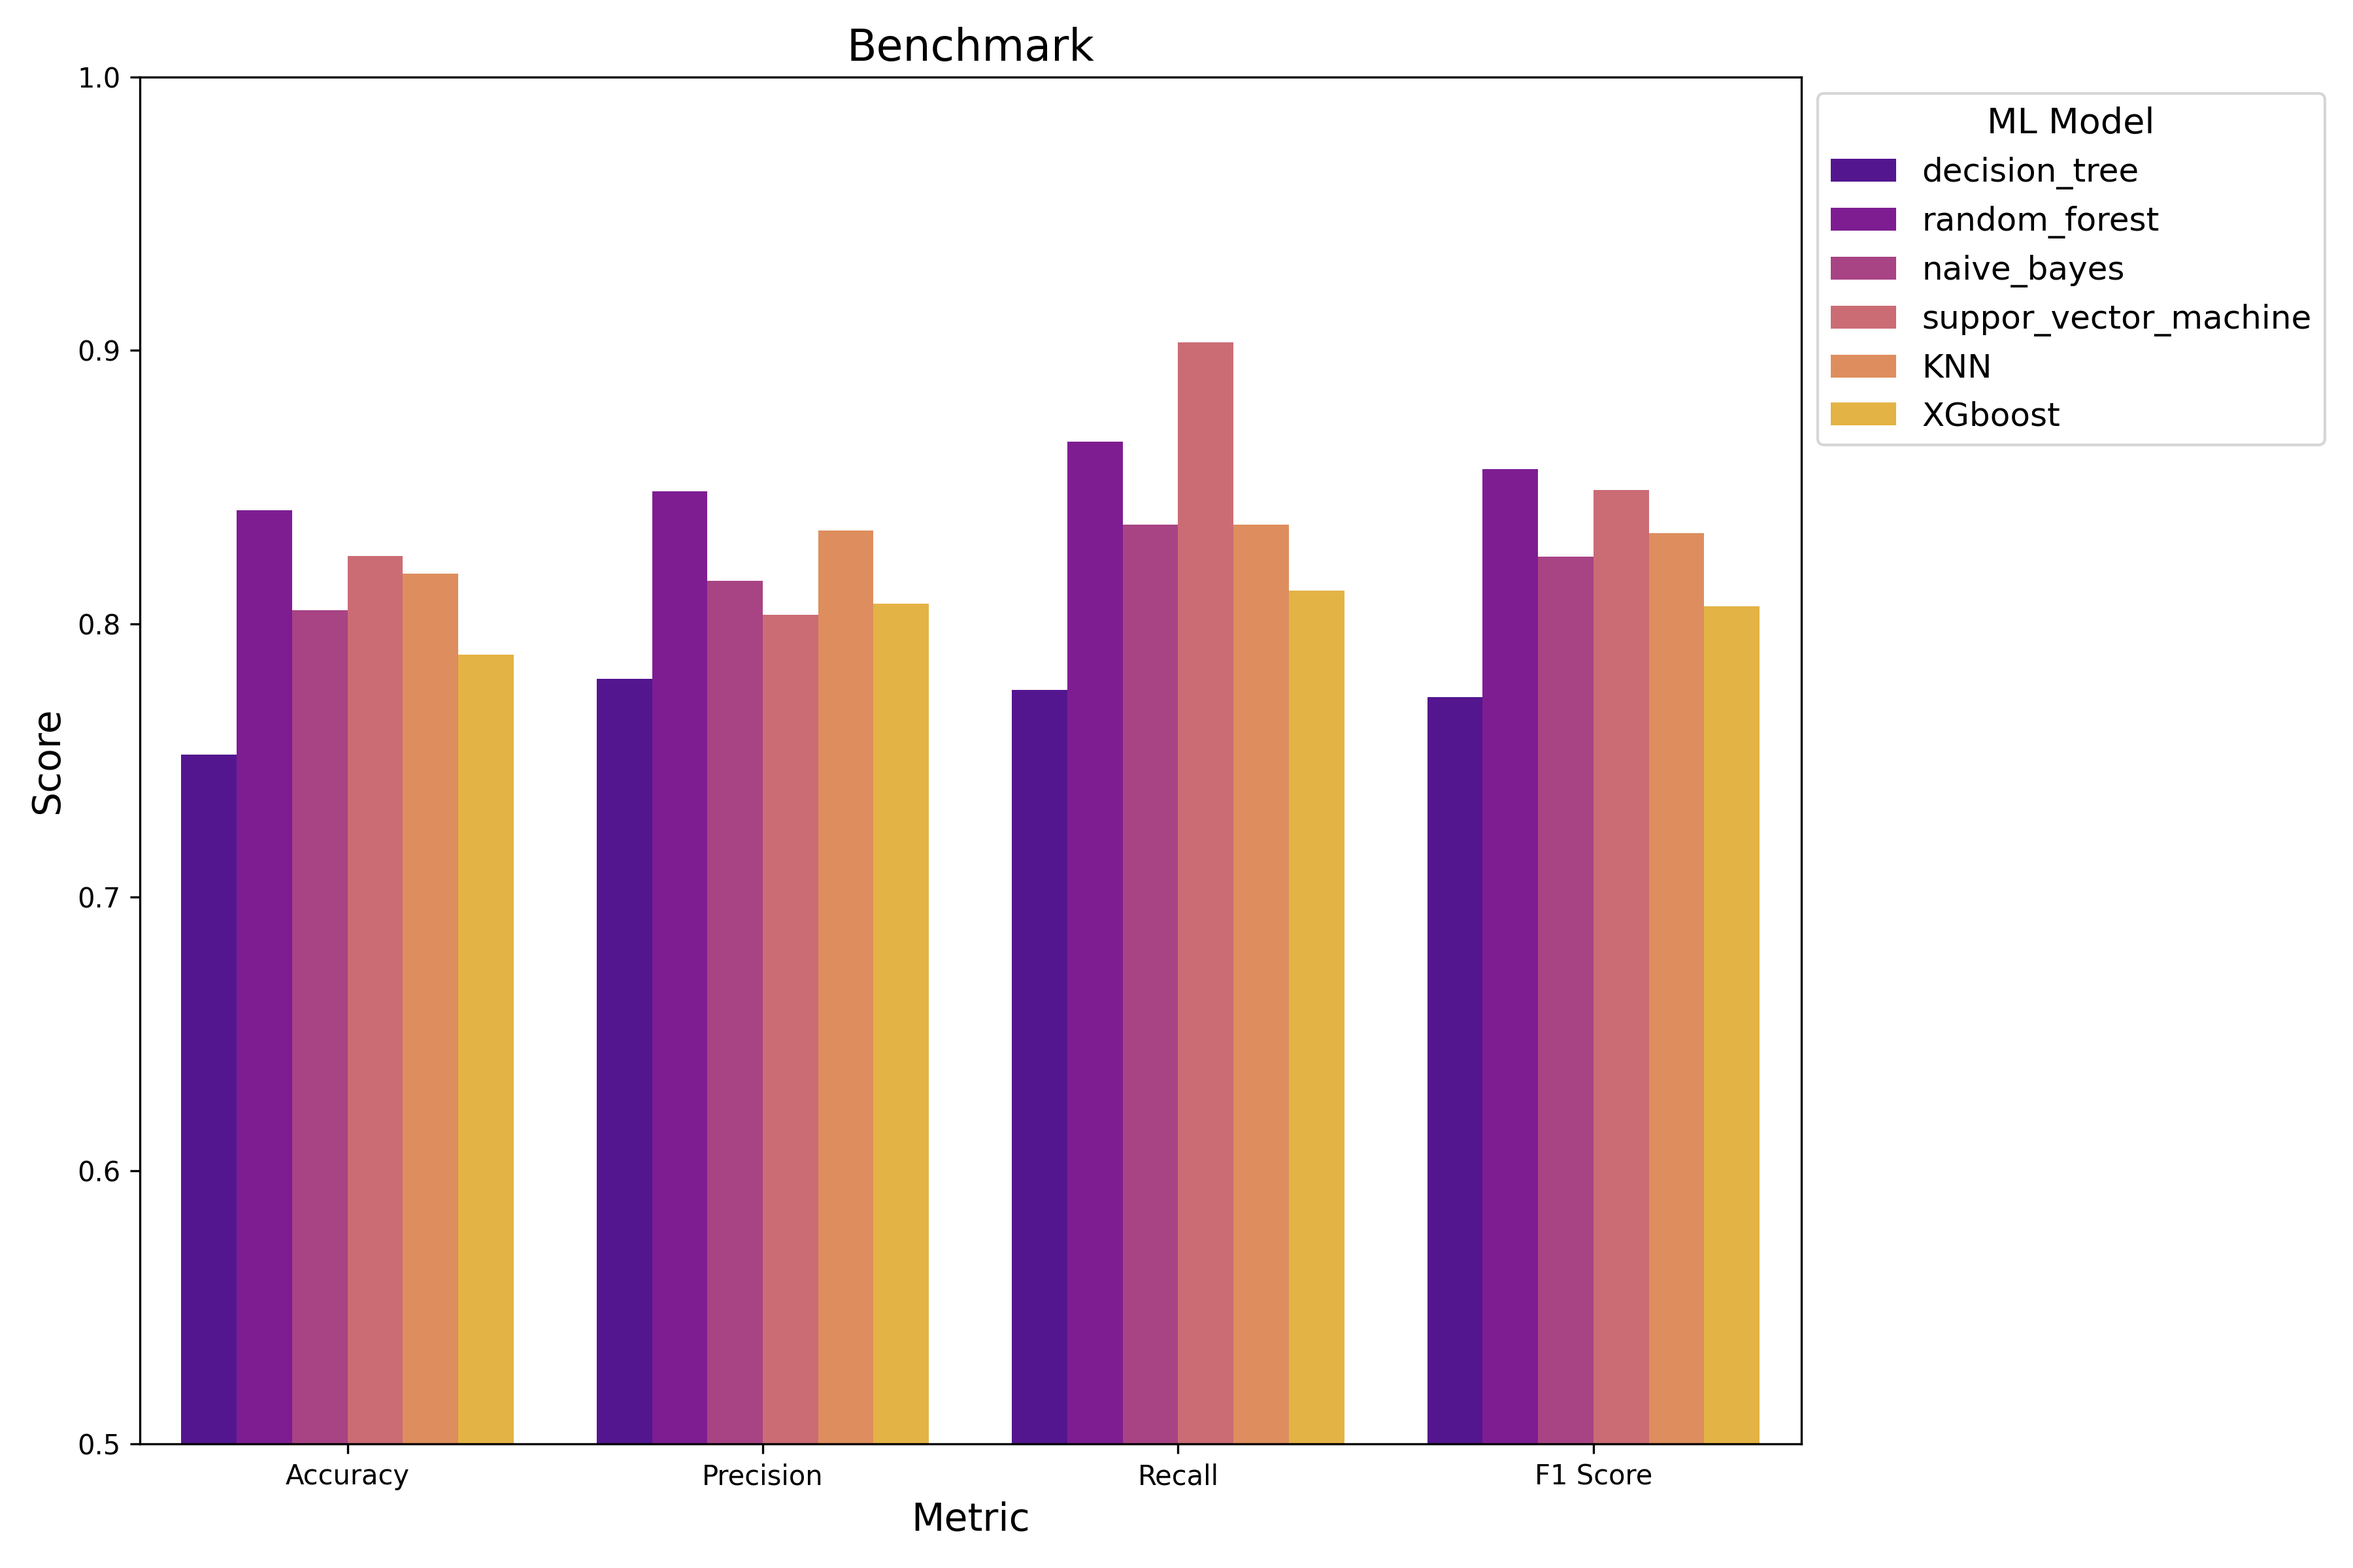
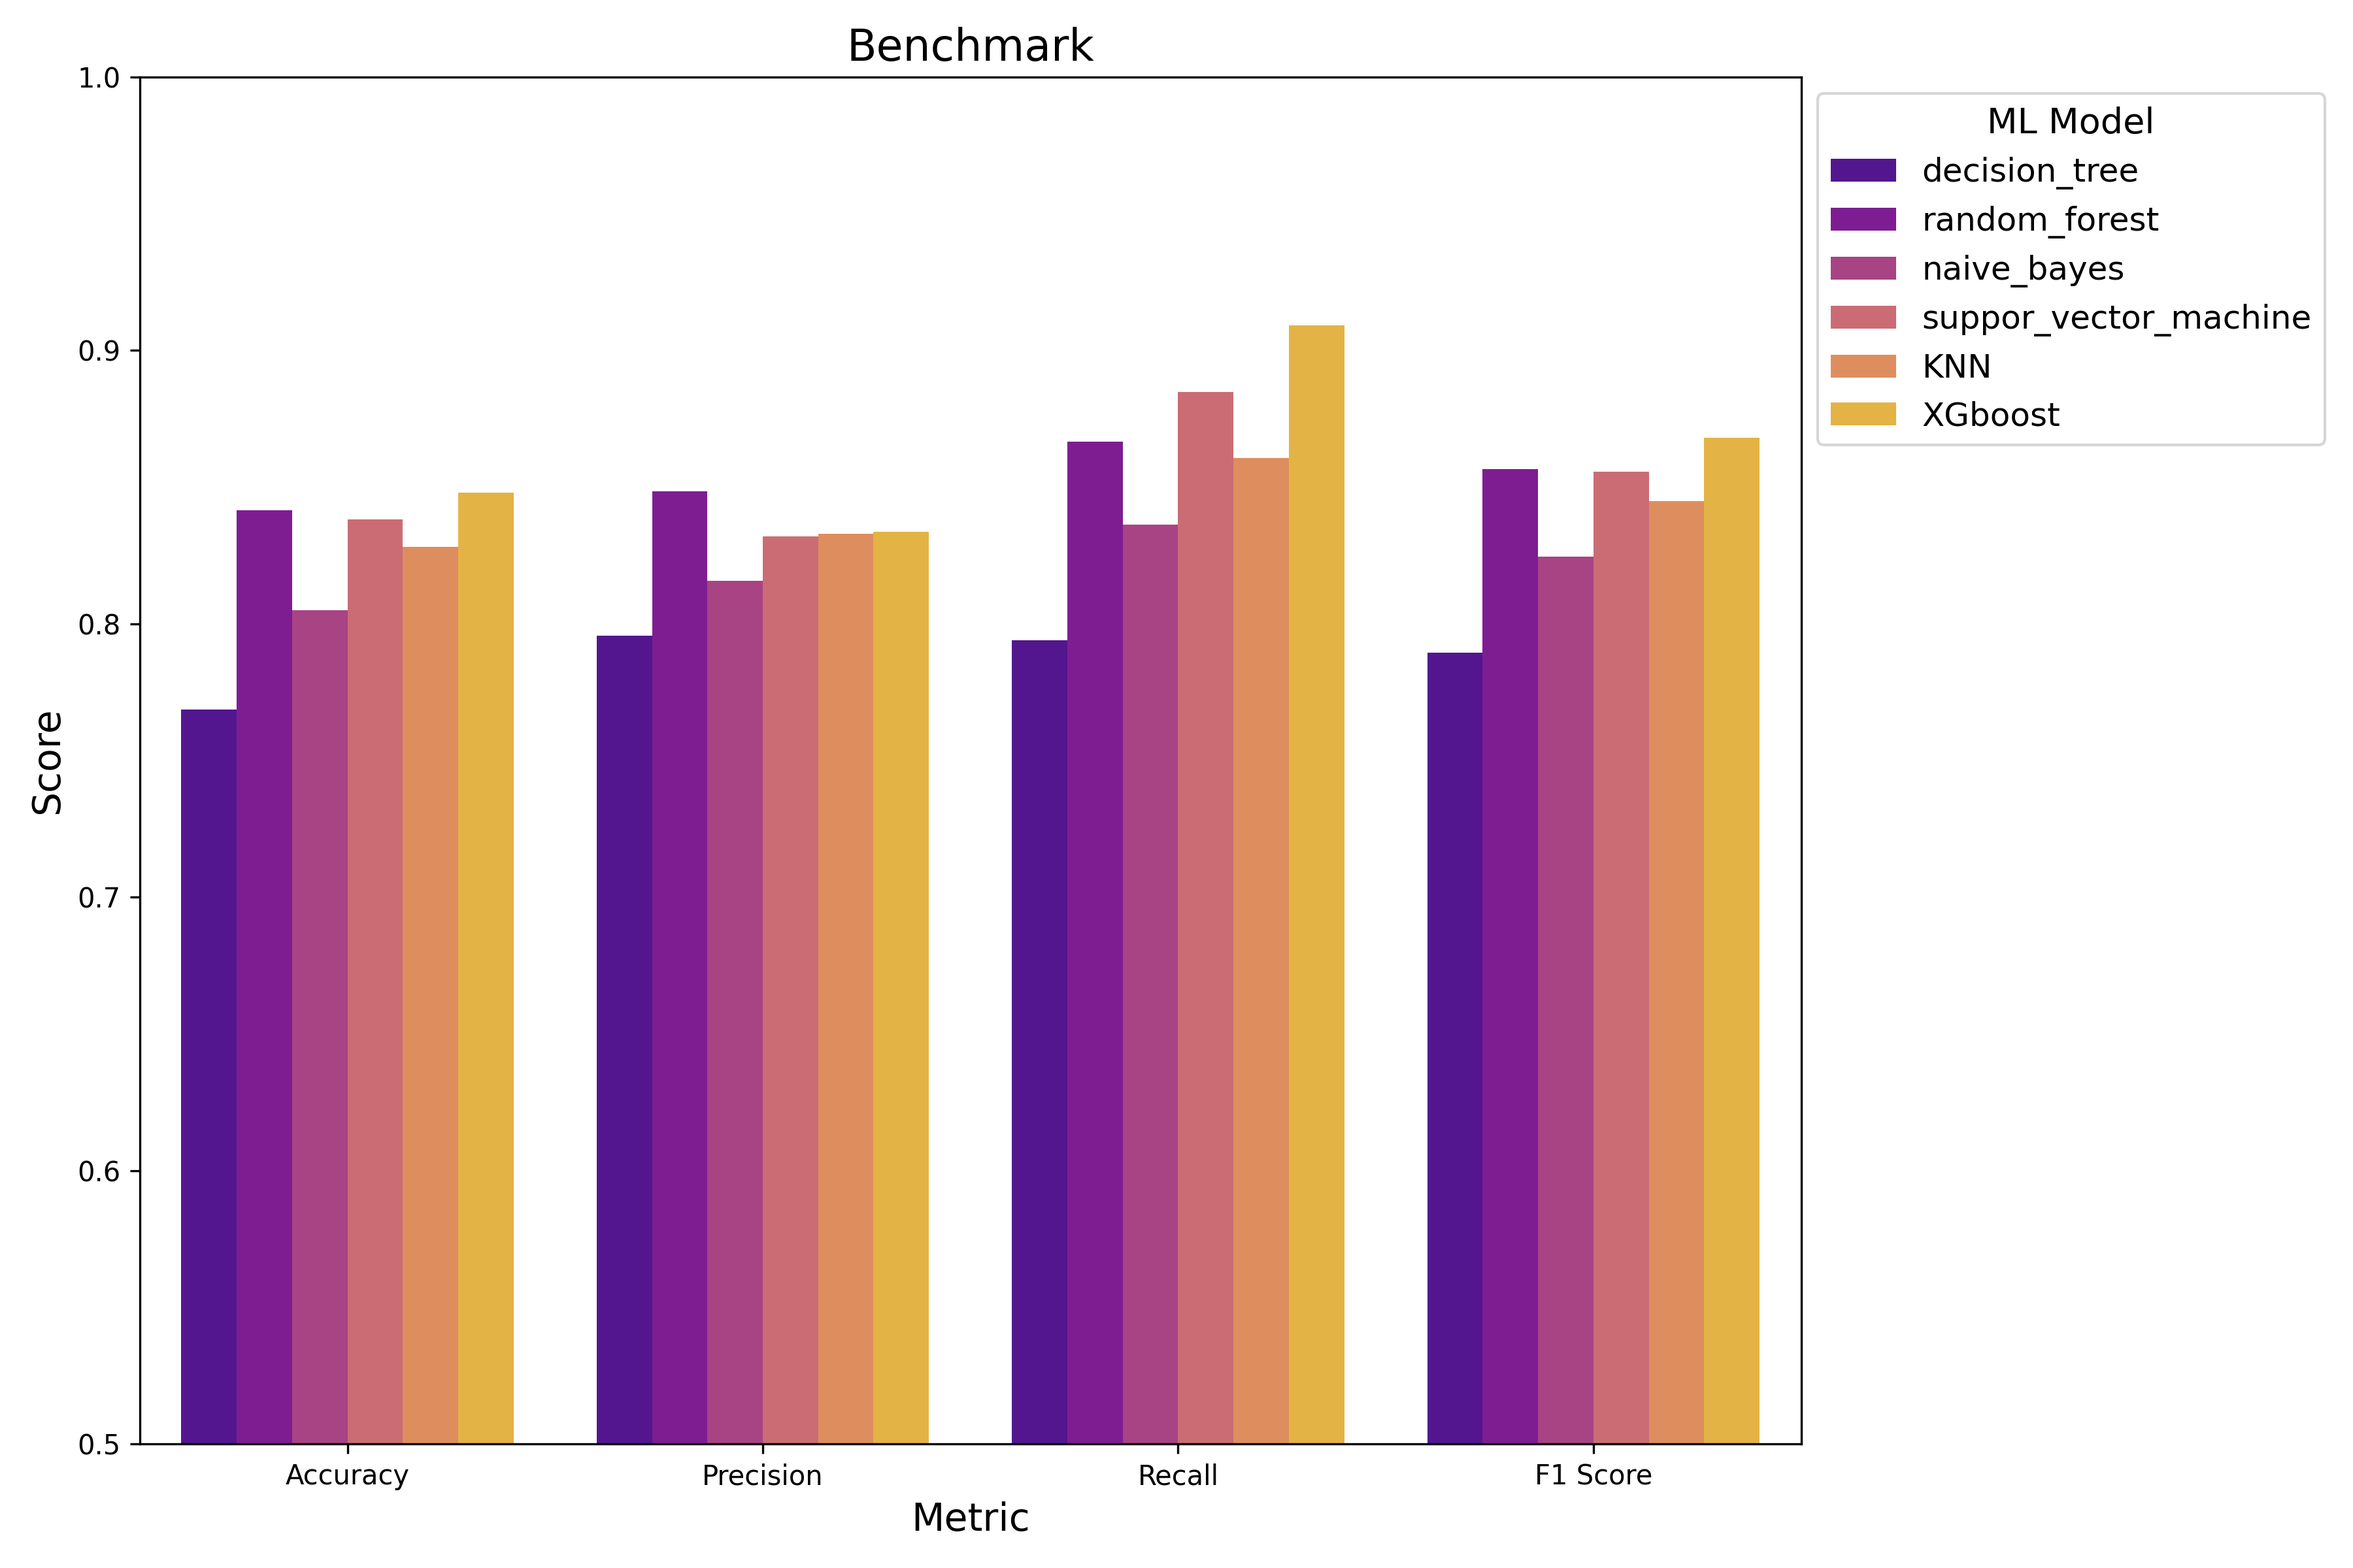
improve models with best hyperparameters search

diff --git a/app/analizer.py b/app/analizer.py
@@ -9,7 +9,7 @@ import matplotlib.pyplot as plt
 import numpy as np
 import pandas as pd
 # Metrics and validation methods
-from sklearn.model_selection import cross_validate
+from sklearn.model_selection import cross_validate, GridSearchCV
 
 # Machine Learning Methods
 from sklearn.tree import DecisionTreeClassifier 
@@ -25,6 +25,13 @@ scoring = {
     'recall': 'recall',
     'f1': 'f1'}
 
+def tune_hyperparameters(model, param_grid, X, y):
+    grid_search = GridSearchCV(estimator=model, param_grid=param_grid, cv=5, scoring='accuracy', n_jobs=-1)
+    grid_search.fit(X, y)
+    best_model = grid_search.best_estimator_
+    best_params = grid_search.best_params_
+    return best_model, best_params
+
 #Using Pearson Correlation
 def P_corr(X):
     plt.figure(figsize=(12,10))
@@ -35,21 +42,48 @@ def P_corr(X):
 
 def decision_tree(X,y):
     DT = DecisionTreeClassifier(max_depth = 40)
-
-    cv_results = cross_validate(DT, X, y, cv=5, scoring=scoring)
+    param_grid = {
+        'max_depth': [10, 20, 30, 40, 50],
+        'min_samples_split': [2, 5, 10],
+        'min_samples_leaf': [1, 2, 4]
+    }
+    best_model, best_params = tune_hyperparameters(DT, param_grid, X, y)
+    cv_results = cross_validate(best_model, X, y, cv=5, scoring=scoring)
+    with open('output/DecisionTree.txt', 'w') as f:
+        f.write("*******************************************************************\n")
+        f.write("Cross-validated Scores fo\n")
+        f.write(f"Best params for Decision Tree: {best_params}")
     return cv_results['test_accuracy'].mean(),cv_results['test_precision'].mean(),cv_results['test_recall'].mean(),cv_results['test_f1'].mean()
 
 
 def random_forest(X,y):
     RF = RandomForestClassifier(n_estimators=100, max_depth=40, random_state=42)
-    cv_results = cross_validate(RF, X, y, cv=5, scoring=scoring)
+    param_grid = {
+        'n_estimators': [100, 200, 300],
+        'max_depth': [10, 20, 30, 40],
+        'min_samples_split': [2, 5, 10],
+        'min_samples_leaf': [1, 2, 4],
+        'bootstrap': [True, False]
+    }
+    best_model, best_params = tune_hyperparameters(RF, param_grid, X, y)
+    cv_results = cross_validate(best_model, X, y, cv=5, scoring=scoring)   
+    with open('output/RandomForest.txt', 'w') as f:
+        f.write(f"Best params for Random Forest: {best_params}")
     return cv_results['test_accuracy'].mean(),cv_results['test_precision'].mean(),cv_results['test_recall'].mean(),cv_results['test_f1'].mean()
 
 
 
 def suppor_vector_machine(X,y):
     svc = SVC(gamma='auto')
-    cv_results = cross_validate(svc, X, y, cv=5, scoring=scoring)
+    param_grid = {
+        'C': [0.1, 1, 10, 100],
+        'gamma': [1, 0.1, 0.01, 0.001],
+        'kernel': ['linear', 'poly', 'rbf', 'sigmoid']
+    }
+    best_model, best_params = tune_hyperparameters(svc, param_grid, X, y)
+    cv_results = cross_validate(best_model, X, y, cv=5, scoring=scoring)
+    with open('output/SupporVMachine.txt', 'w') as f:
+        f.write(f"Best params for SVC: {best_params}")
     return cv_results['test_accuracy'].mean(),cv_results['test_precision'].mean(),cv_results['test_recall'].mean(),cv_results['test_f1'].mean()
 
 def naive_bayes(X,y):
@@ -60,7 +94,15 @@ def naive_bayes(X,y):
 
 def KNN(X,y):
     knn = KNeighborsClassifier(n_neighbors=3)
-    cv_results = cross_validate(knn, X, y, cv=5, scoring=scoring)
+    param_grid = {
+        'n_neighbors': [3, 5, 7, 9, 11],
+        'weights': ['uniform', 'distance'],
+        'metric': ['euclidean', 'manhattan', 'minkowski']
+    }
+    best_model, best_params = tune_hyperparameters(knn, param_grid, X, y)
+    cv_results = cross_validate(best_model, X, y, cv=5, scoring=scoring)
+    with open('output/KNearNeightboor.txt', 'w') as f:
+        f.write(f"Best params for KNN: {best_params}")
     return cv_results['test_accuracy'].mean(),cv_results['test_precision'].mean(),cv_results['test_recall'].mean(),cv_results['test_f1'].mean()
 
 
@@ -68,7 +110,18 @@ def KNN(X,y):
 
 def xgboost(X,y):
     xgb = XGBClassifier()
-    cv_results = cross_validate(xgb, X, y, cv=5, scoring=scoring)
+    param_grid = {
+        'n_estimators': [100, 200, 300],
+        'learning_rate': [0.01, 0.1, 0.2],
+        'max_depth': [3, 5, 7],
+        'subsample': [0.6, 0.8, 1.0],
+        'colsample_bytree': [0.6, 0.8, 1.0]
+    }
+    best_model, best_params = tune_hyperparameters(xgb, param_grid, X, y)
+    cv_results = cross_validate(best_model, X, y, cv=5, scoring=scoring)
+ 
+    with open('output/xgboost.txt', 'w') as f:
+        f.write(f"Best params for XGBoost: {best_params}")
     return cv_results['test_accuracy'].mean(),cv_results['test_precision'].mean(),cv_results['test_recall'].mean(),cv_results['test_f1'].mean()
 
 def benchmarkbar(bench_data):
